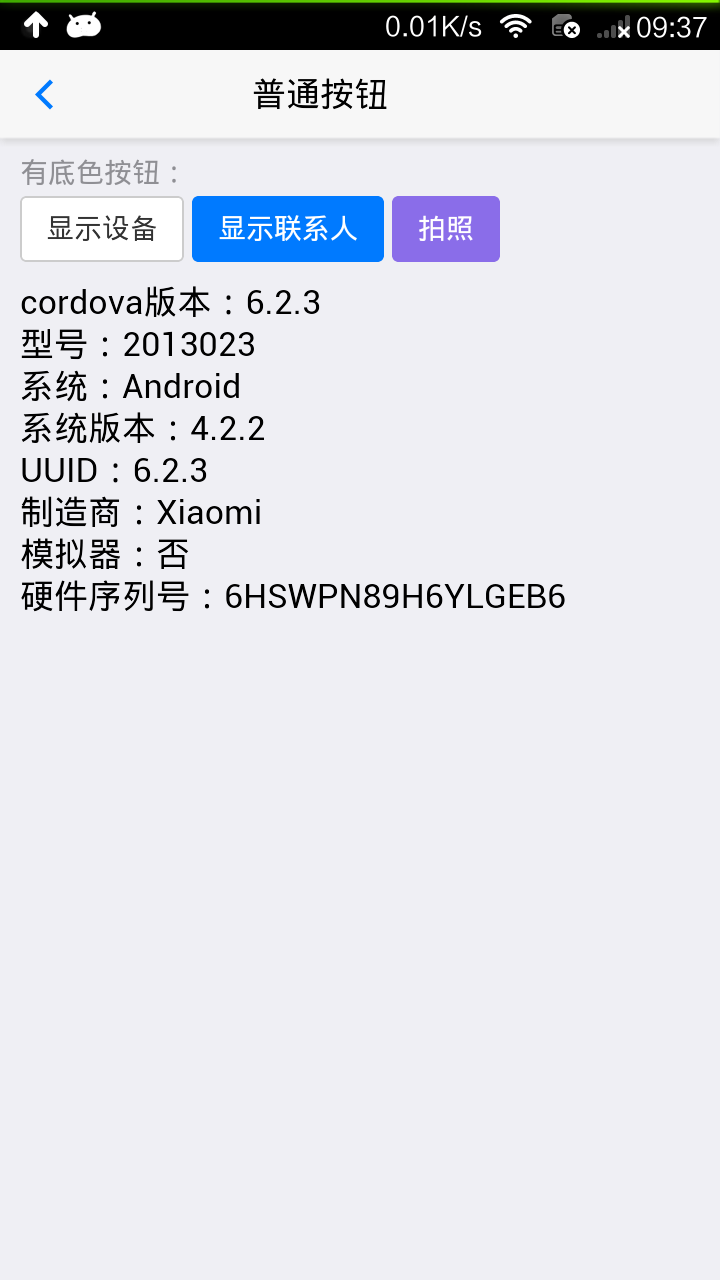
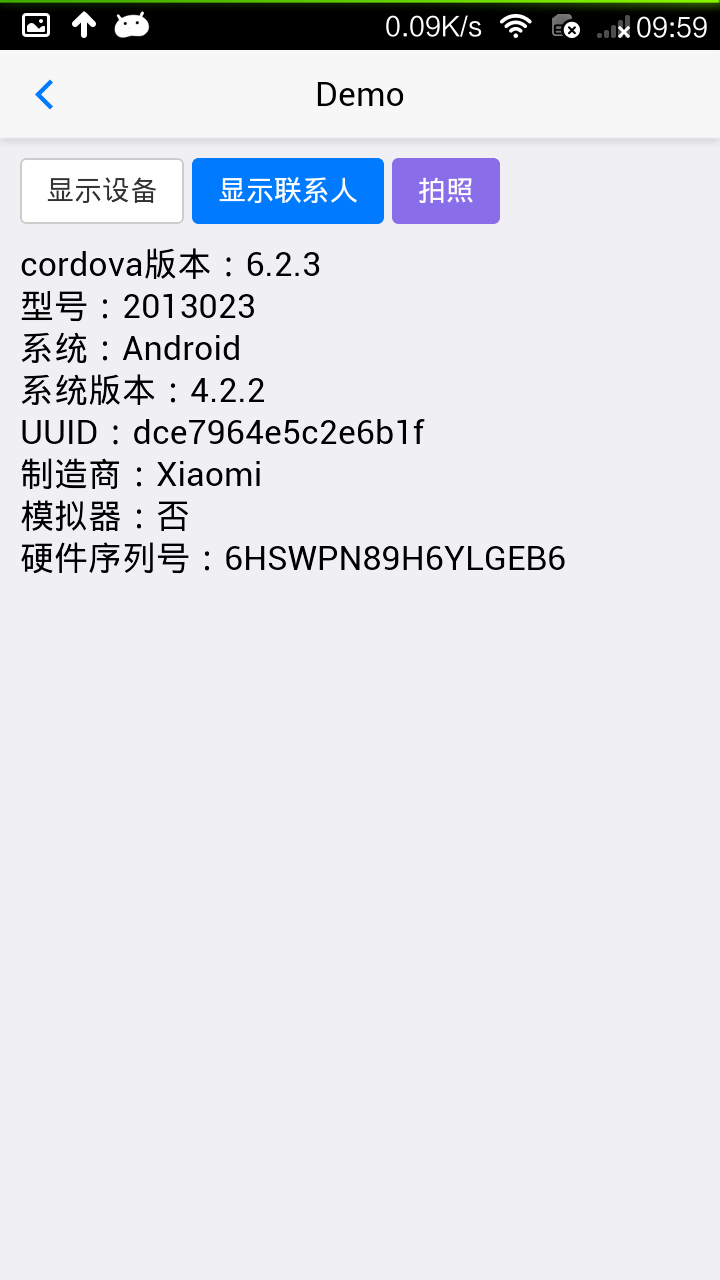
排版

diff --git a/js/cordo.js b/js/cordo.js
@@ -80,7 +80,7 @@ cordo.initialize(function () {
         html += "系统版本：" + device.version + "<br/>";
         //Get the device's Universally Unique Identifier (UUID).
         // The details of how a UUID is generated are determined by the device manufacturer and are specific to the device's platform or model.
-        html += "UUID：" + device.cordova + "<br/>";
+        html += "UUID：" + device.uuid + "<br/>";
         //Get the device's manufacturer.
         // Android:    Motorola XT1032 would return "motorola"
         // BlackBerry: returns "BlackBerry"
@@ -110,7 +110,7 @@ cordo.initialize(function () {
                 for (var x in contacts) {
                     var contact = contacts[x];
                     content += "称呼：" + contact["displayName"] + "<br>";
-                    content += "email：" + contact["email"] + "<br>";
+                    content += "email：" + (contact["email"] ? contact["email"] : "") + "<br>";
                     for (var y in contact["phoneNumbers"]) {
                         content +=
                             contact["phoneNumbers"][y]["type"] + "：" +

diff --git a/index.html b/index.html
@@ -14,11 +14,10 @@
 <body>
 <header class="mui-bar mui-bar-nav">
     <a class="mui-action-back mui-icon mui-icon-left-nav mui-pull-left"></a>
-    <h1 class="mui-title">普通按钮</h1>
+    <h1 class="mui-title">Demo</h1>
 </header>
 <div class="mui-content">
     <div class="mui-content-padded">
-        <h5>有底色按钮：</h5>
         <button type="button" id="showdevice" class="mui-btn">
             显示设备
         </button>
@@ -32,9 +31,9 @@
     <div class="mui-content-padded" id="content">
     </div>
 </div>
-<script type="text/javascript" src="cordova.js"></script>
+<script src="cordova.js"></script>
 <script src="js/mui.min.js"></script>
 <script src="js/layer.js"></script>
-<script type="text/javascript" src="js/cordo.js"></script>
+<script src="js/cordo.js"></script>
 </body>
 </html>

diff --git a/README.md b/README.md
@@ -9,10 +9,8 @@
 
 实现的功能：
 - 读取设备信息（系统，版本...）
-- 读取联系人信息
-- 拍照并获取照片base64码
-
-截图：
 ![screenshot](https://raw.githubusercontent.com/lichtung/cordo/master/screenshots/1.png)
+- 读取联系人信息
 ![screenshot](https://raw.githubusercontent.com/lichtung/cordo/master/screenshots/2.png)
+- 拍照并获取照片base64码
 ![screenshot](https://raw.githubusercontent.com/lichtung/cordo/master/screenshots/3.png)
